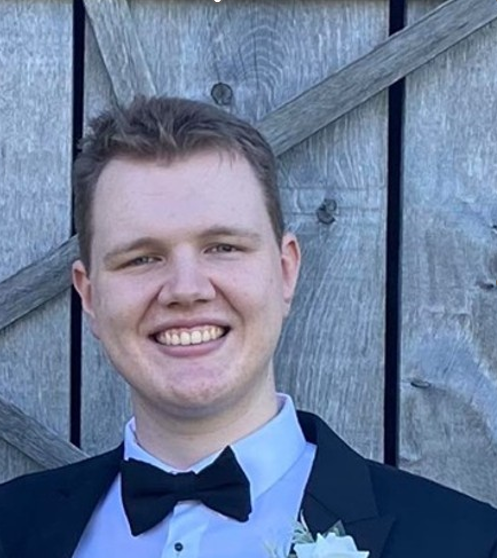
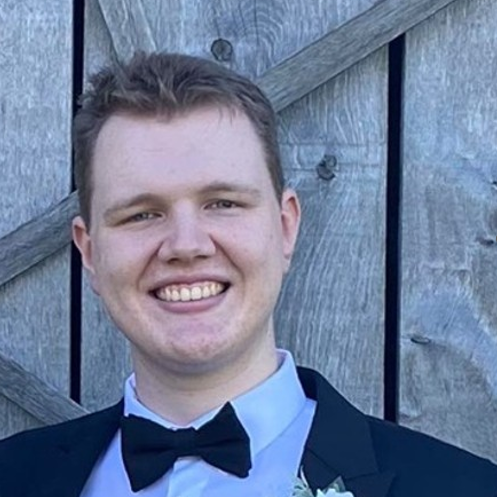
star of profile links

diff --git a/src/views/HomeView.vue b/src/views/HomeView.vue
@@ -1,11 +1,43 @@
 <template>
   <div class="home-container">
-    <div>
+    <div class="profile-column">
       <h1>Curtis Ackland</h1>
-      <img alt="Profile Picture" src="../assets/profile_picture.png" />
+      <img
+        alt="Profile Picture"
+        src="../assets/profile_picture.png"
+        class="profile-picture"
+      />
+      <div class="icons-space">
+        <svg
+          height="32"
+          aria-hidden="true"
+          viewBox="0 0 16 16"
+          width="32"
+          data-view-component="true"
+        >
+          <path
+            d="M8 0c4.42 0 8 3.58 8 8a8.013 8.013 0 0 1-5.45 7.59c-.4.08-.55-.17-.55-.38 0-.27.01-1.13.01-2.2 0-.75-.25-1.23-.54-1.48 1.78-.2 3.65-.88 3.65-3.95 0-.88-.31-1.59-.82-2.15.08-.2.36-1.02-.08-2.12 0 0-.67-.22-2.2.82-.64-.18-1.32-.27-2-.27-.68 0-1.36.09-2 .27-1.53-1.03-2.2-.82-2.2-.82-.44 1.1-.16 1.92-.08 2.12-.51.56-.82 1.28-.82 2.15 0 3.06 1.86 3.75 3.64 3.95-.23.2-.44.55-.51 1.07-.46.21-1.61.55-2.33-.66-.15-.24-.6-.83-1.23-.82-.67.01-.27.38.01.53.34.19.73.9.82 1.13.16.45.68 1.31 2.69.94 0 .67.01 1.3.01 1.49 0 .21-.15.45-.55.38A7.995 7.995 0 0 1 0 8c0-4.42 3.58-8 8-8Z"
+          ></path>
+        </svg>
+        <svg
+          xmlns="http://www.w3.org/2000/svg"
+          viewBox="0 0 24 24"
+          data-supported-dps="24x24"
+          fill="currentColor"
+          class="mercado-match"
+          width="32"
+          height="32"
+          focusable="false"
+        >
+          <path
+            d="M20.5 2h-17A1.5 1.5 0 002 3.5v17A1.5 1.5 0 003.5 22h17a1.5 1.5 0 001.5-1.5v-17A1.5 1.5 0 0020.5 2zM8 19H5v-9h3zM6.5 8.25A1.75 1.75 0 118.3 6.5a1.78 1.78 0 01-1.8 1.75zM19 19h-3v-4.74c0-1.42-.6-1.93-1.38-1.93A1.74 1.74 0 0013 14.19a.66.66 0 000 .14V19h-3v-9h2.9v1.3a3.11 3.11 0 012.7-1.4c1.55 0 3.36.86 3.36 3.66z"
+          ></path>
+        </svg>
+      </div>
     </div>
     <div>
-      <img alt="Profile Picture" src="../assets/profile_picture.png" />
+      <h2>About Me</h2>
+      section paragraph
     </div>
   </div>
 </template>
@@ -25,7 +57,19 @@ export default {
 }
 
 .profile-column {
+  margin: 8px;
+}
+
+.profile-picture {
+  width: 12em;
+  height: auto;
+  border-radius: 30px;
+}
+
+.icons-space {
   display: flex;
   flex-wrap: wrap;
+  justify-content: space-between;
+  padding: 8px;
 }
 </style>
